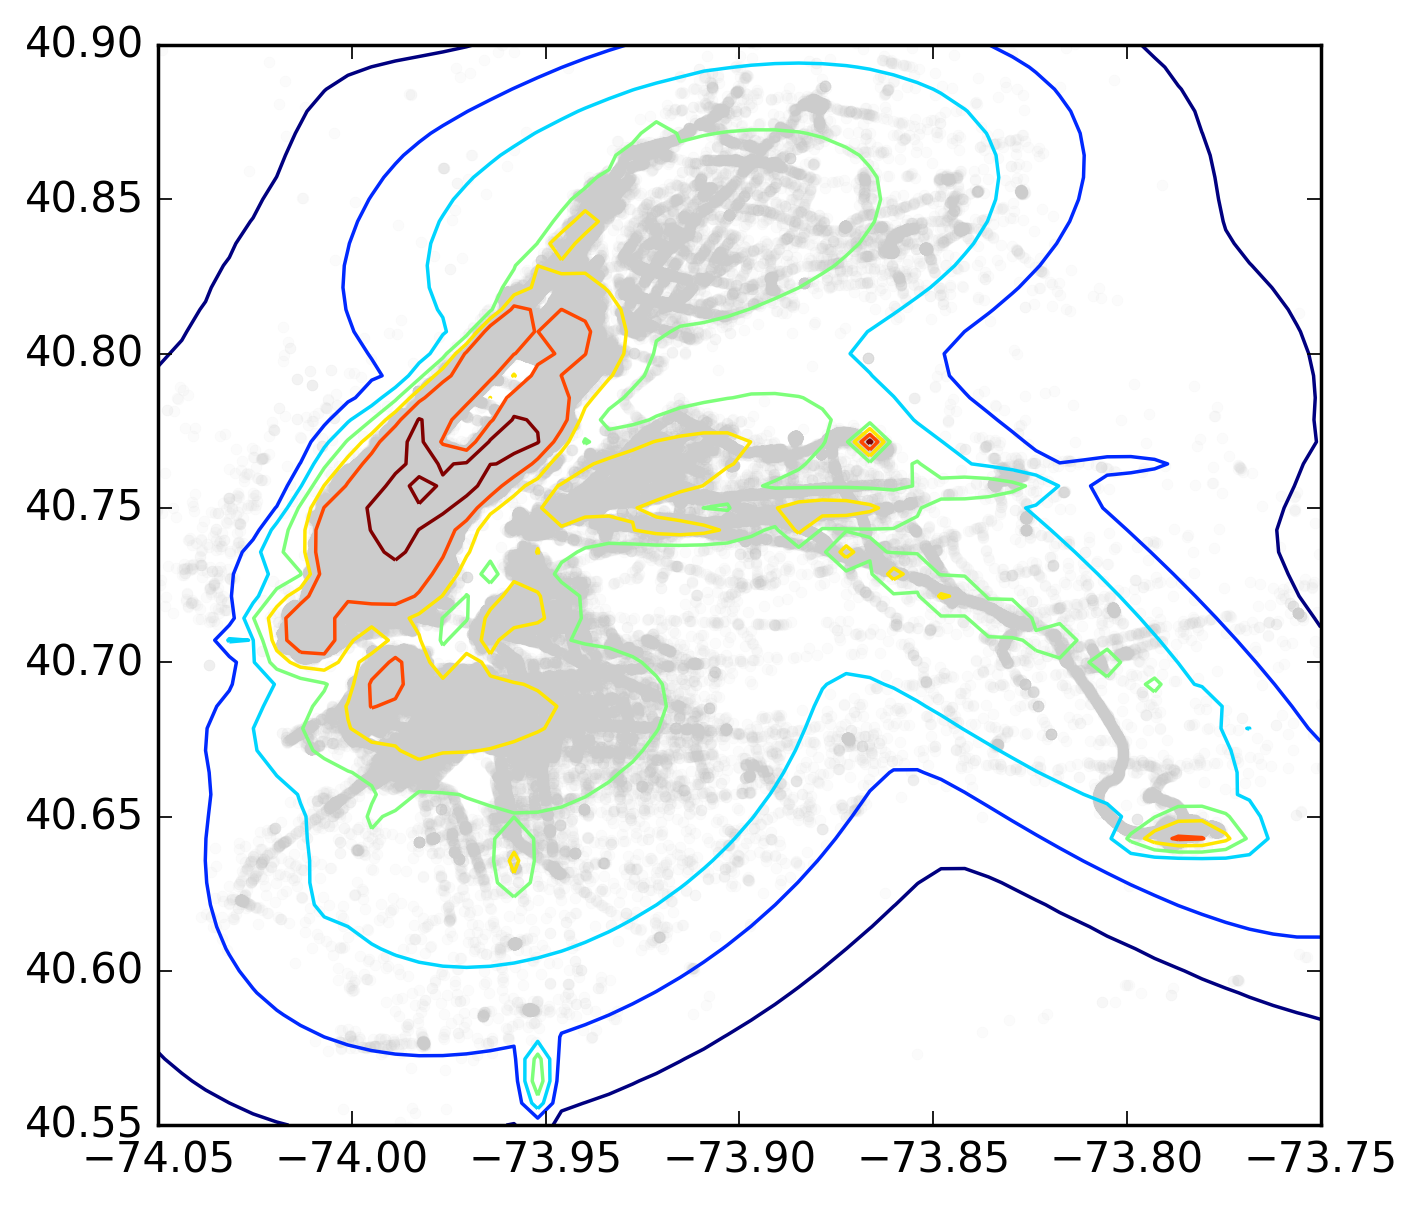
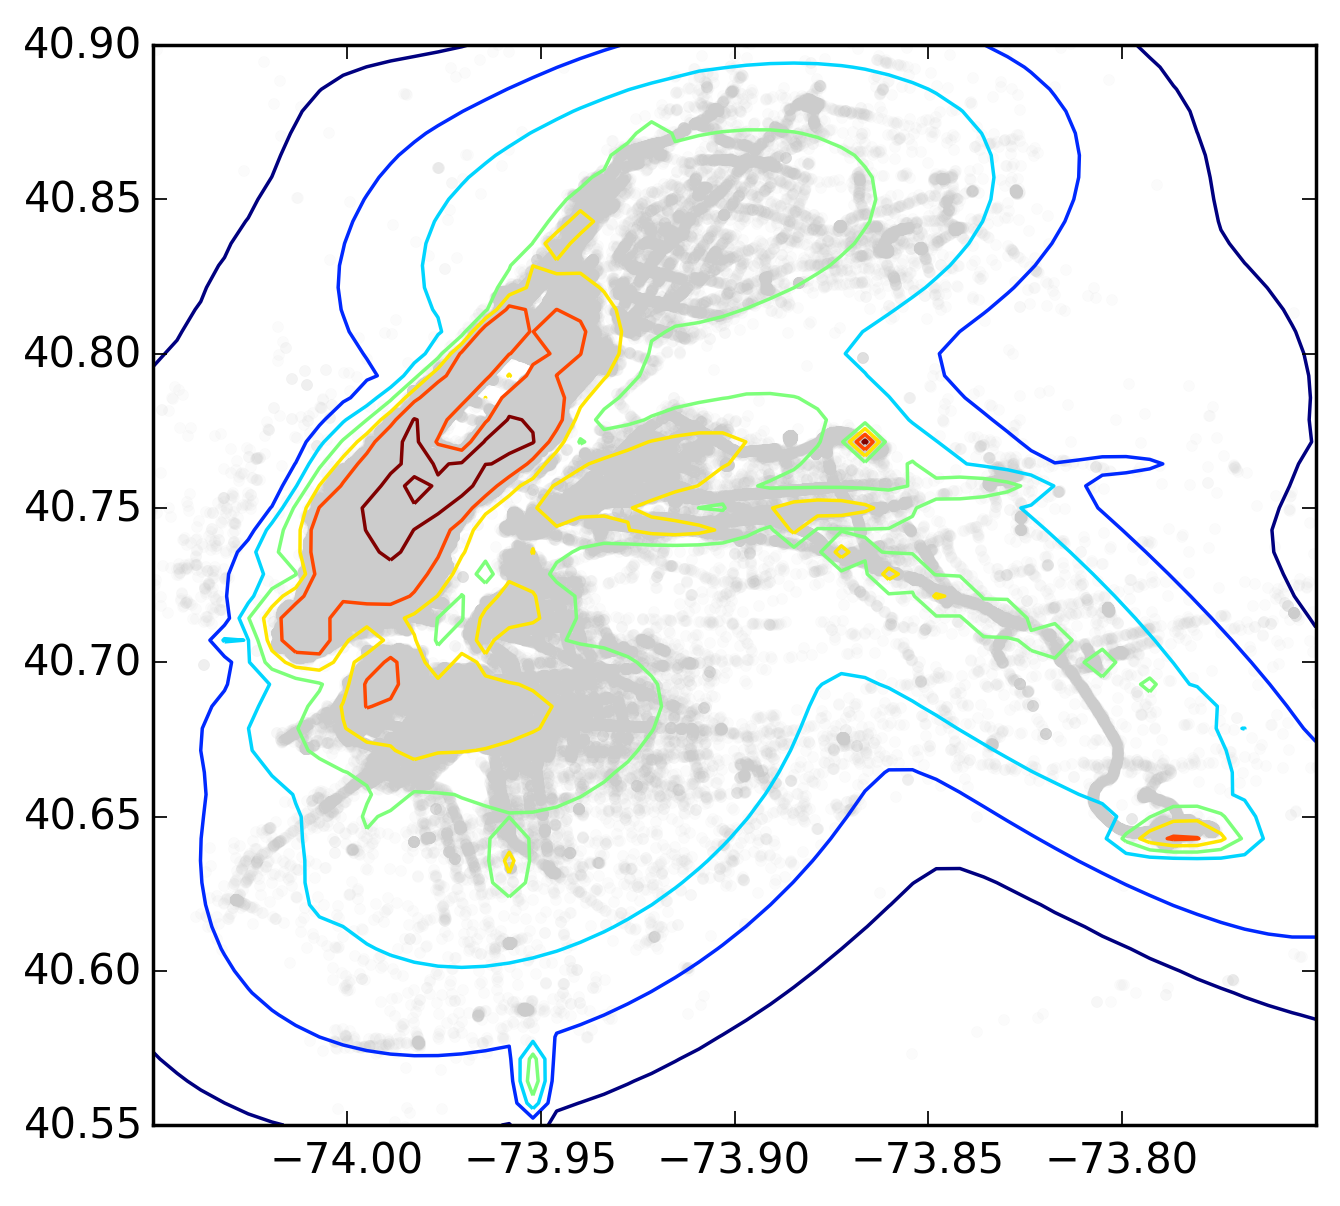
Creating additional figures.

diff --git a/analysis.py b/analysis.py
@@ -148,6 +148,27 @@ ax.set_ylim(40.55, 40.9)
 fig.savefig('./include/diff_night.png', bbox_inches='tight', dpi=250)
 
 
+time = np.array(
+    sdata['pickup_time'].dt.hour + (sdata['pickup_time'].dt.minute/60))
+
+fig = plt.figure(figsize=(9, 5))
+ax = fig.add_subplot(1, 1, 1)
+n, bins, patches = ax.hist(
+    time, 50, normed=1, facecolor='0.5', histtype='stepfilled')
+bounds = [0, 2, 7, 9, 16, 18, 22, 24]
+colors = ['#e41a1c', '#377eb8', '#4daf4a', '#984ea3',
+          '#ff7f00', '#ffff33', '#e41a1c']
+for i, c in enumerate(colors):
+    ax.plot(bounds[i:(i+2)], [0, 0], color=c,
+            linestyle='-', linewidth=15, solid_capstyle='butt')
+for x in [2, 7, 9, 16, 18, 22]:
+    ax.axvline(x, color='blue')
+ax.set_xlim(0, 24)
+ax.set_xticks([0, 4, 8, 12, 16, 20, 24])
+fig.savefig('./include/time.png', bbox_inches='tight', dpi=200)
+
+
+
 # # BIC
 # np.random.seed(2634)
 # inds = np.random.choice(sd.shape[0], 200000, replace=False)
@@ -262,6 +283,7 @@ ax.scatter(sd[:,0], sd[:,1], alpha=0.08, lw=0.1, s=10, color='0.8')
 cs = ax.contour(X, Y, Z_morn)
 ax.set_xlim(-74.05, -73.75)
 ax.set_ylim(40.55, 40.9)
+ax.set_xticks(np.arange(-74, -73.76, .05))
 fig_morn.savefig('./include/gmm_cat_morn.png', bbox_inches='tight', dpi=250)
 
 fig_night = plt.figure(figsize=(6, 5.4))
@@ -270,4 +292,35 @@ ax.scatter(sd[:,0], sd[:,1], alpha=0.08, lw=0.1, s=10, color='0.8')
 ax.contour(X, Y, Z_night, levels=cs.levels)
 ax.set_xlim(-74.05, -73.75)
 ax.set_ylim(40.55, 40.9)
+ax.set_xticks(np.arange(-74, -73.76, .05))
 fig_night.savefig('./include/gmm_cat_night.png', bbox_inches='tight', dpi=250)
+
+
+x2 = np.linspace(-74.03, -73.91)
+y2 = np.linspace(40.69, 40.83)
+X2, Y2 = np.meshgrid(x2, y2)
+XX2 = np.array([X2.ravel(), Y2.ravel()]).T
+
+Z2_morn = gmm_morn.score_samples(XX2)[0]
+Z2_morn = Z2_morn.reshape(X2.shape)
+
+Z2_night = gmm_night.score_samples(XX2)[0]
+Z2_night = Z2_night.reshape(X2.shape)
+
+fig_morn2 = plt.figure(figsize=(6, 5.4))
+ax = fig_morn2.add_subplot(1, 1, 1)
+ax.scatter(sd[:,0], sd[:,1], alpha=0.08, lw=0.1, s=10, color='0.8')
+cs2 = ax.contour(X2, Y2, Z2_morn)
+ax.set_xlim(-74.03, -73.91)
+ax.set_ylim(40.69, 40.83)
+fig_morn2.savefig('./include/gmm_cat_morn2.png', bbox_inches='tight', dpi=250)
+
+fig_night2 = plt.figure(figsize=(6, 5.4))
+ax = fig_night2.add_subplot(1, 1, 1)
+ax.scatter(sd[:,0], sd[:,1], alpha=0.08, lw=0.1, s=10, color='0.8')
+ax.contour(X2, Y2, Z2_night, levels=cs2.levels)
+ax.set_xlim(-74.03, -73.91)
+ax.set_ylim(40.69, 40.83)
+fig_night2.savefig('./include/gmm_cat_night2.png', bbox_inches='tight', dpi=250)
+
+
